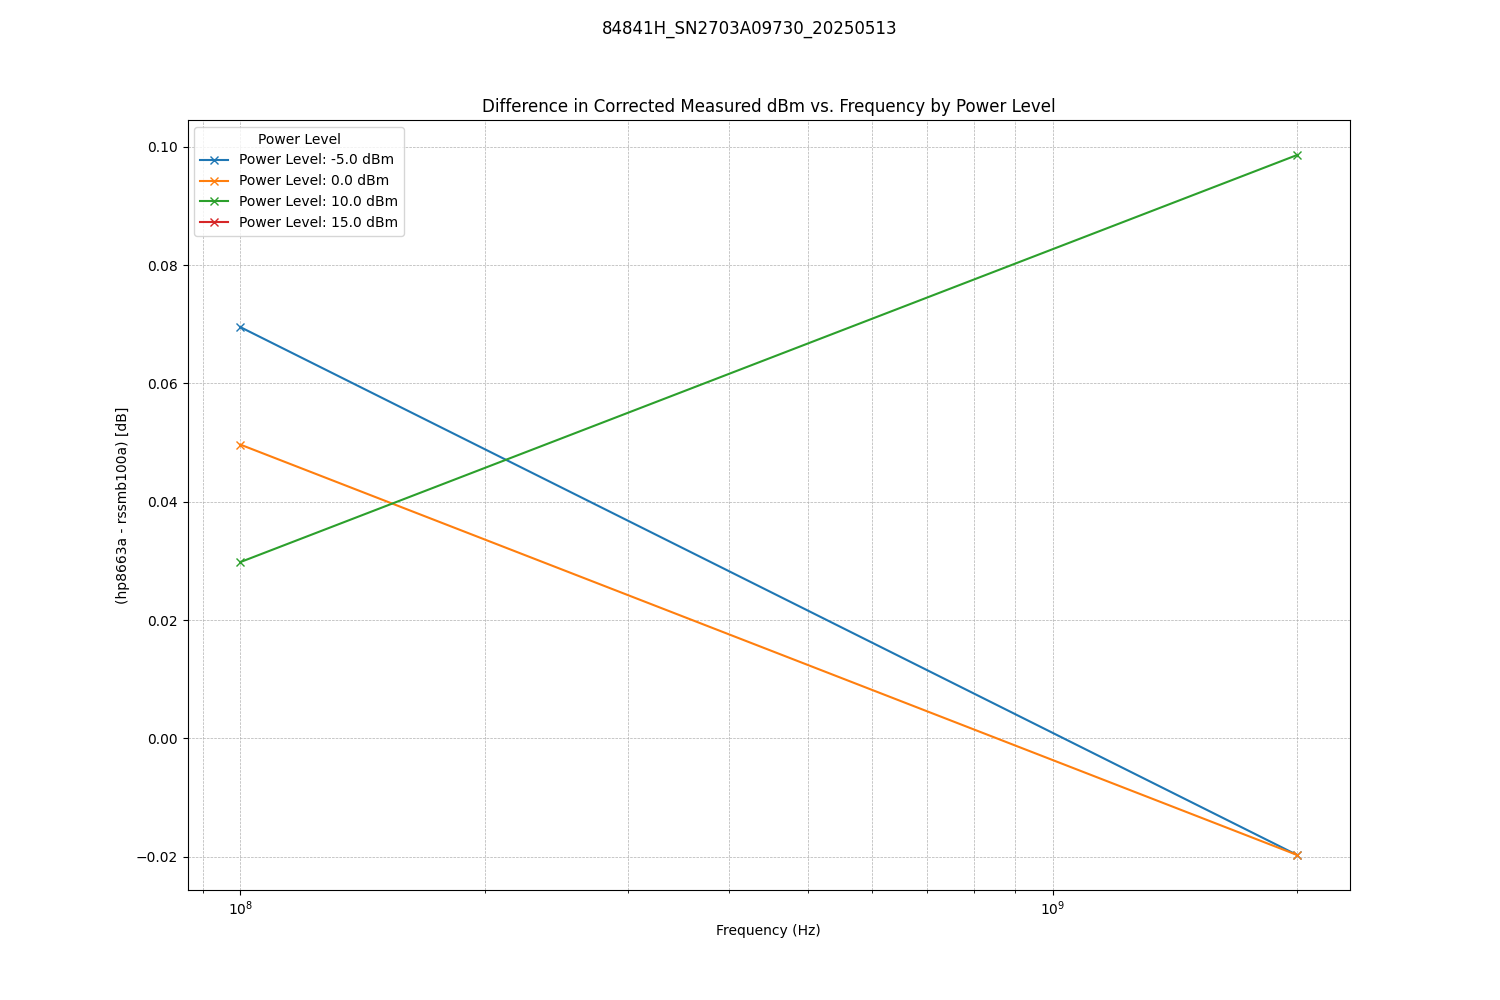
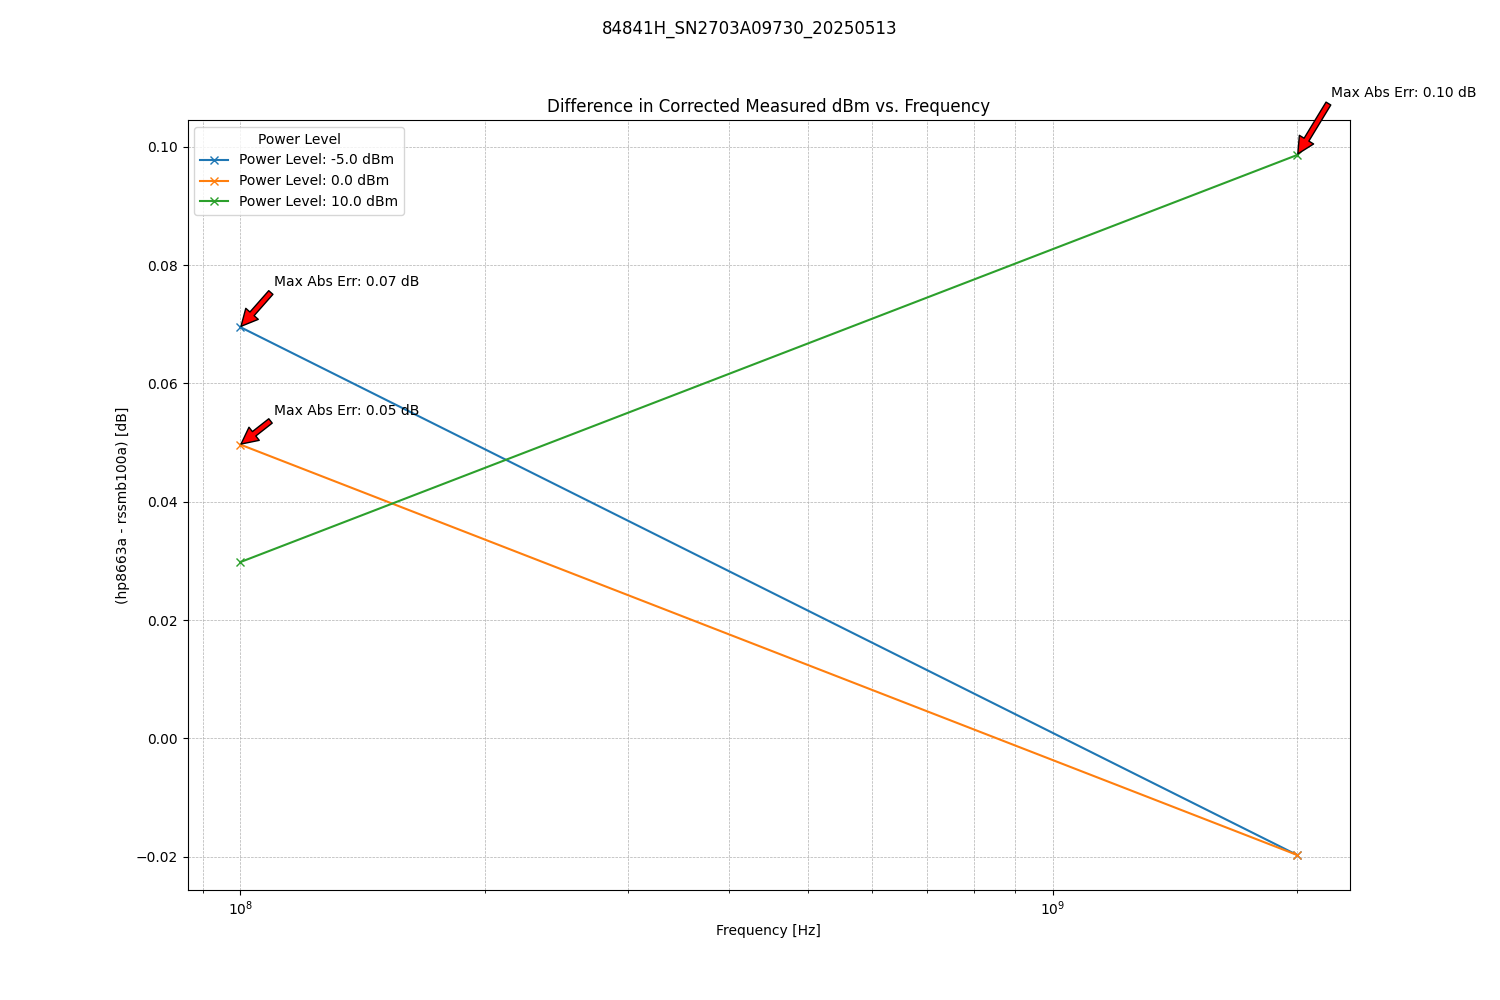
max abs err

diff --git a/instruments/rf_sensor_measurements/rs_vs_hp.py b/instruments/rf_sensor_measurements/rs_vs_hp.py
@@ -42,46 +42,44 @@ def main(argv):
         combined_df.to_parquet(f"{outname}.parquet")
 
         siggens = sorted(combined_df['siggen'].unique())
+        assert len(siggens) == 2
         siggen1 = siggens[0]
         siggen2 = siggens[1]
 
-        assert len(siggens) == 2
-
-        df_filtered = combined_df.dropna(
-            subset=['hz', 'power_level_dBm',
-                    'corrected_measured_dBm', 'siggen'])
-
-        # Pivot the DataFrame to have 'hz' and 'power_level_dBm' as index
-        # and 'siggen' as columns, with 'corrected_measured_dBm' as values.
-        # This automatically aligns based on the index (hz and power_level_dBm)
-        df_pivot = df_filtered.pivot_table(
+        df_pivot = combined_df.pivot_table(
             index=['hz', 'power_level_dBm'],
             columns='siggen',
-            values='corrected_measured_dBm')
+            values='corrected_measured_dBm'
+        )
 
         df_pivot['difference_dB'] = df_pivot[siggen1] - df_pivot[siggen2]
-        # df_pivot.iloc[:, 1] - df_pivot.iloc[:, 0])
+        df_pivot.dropna(inplace=True)
 
-        # Reset index to make 'hz' and 'power_level_dBm' columns again
-        df_diff = df_pivot.reset_index()
+        # Reset index to make 'hz' and 'power_level_dBm' columns again.
+        df_pivot = df_pivot.reset_index()
 
-        # Get unique power levels
-        power_levels = df_diff['power_level_dBm'].unique()
+        print(df_pivot)
+        power_levels = df_pivot['power_level_dBm'].unique()
 
-        # Plotting
         plt.figure(figsize=(15, 10))
-
         for level in power_levels:
-            df_subset = df_diff[df_diff['power_level_dBm'] == level]
+            df_subset = df_pivot[df_pivot['power_level_dBm'] == level]
             plt.plot(df_subset['hz'], df_subset['difference_dB'],
                      label=f'Power Level: {level} dBm', marker='x')
+            max_abs_err = df_subset['difference_dB'].abs().max()
+            max_abs_err_hz = df_subset.loc[
+                df_subset['difference_dB'].abs().idxmax(), 'hz']
+            plt.annotate(
+                f'Max Abs Err: {max_abs_err:.2f} dB',
+                xy=(max_abs_err_hz, df_subset.loc[df_subset['difference_dB'].abs().idxmax(), 'difference_dB']),
+                xytext=(max_abs_err_hz + max_abs_err_hz*0.1, df_subset.loc[df_subset['difference_dB'].abs().idxmax(), 'difference_dB'] + max_abs_err*0.1),
+                arrowprops=dict(facecolor='red', shrink=0.02))
 
         plt.xscale('log')
-        plt.xlabel('Frequency (Hz)')
+        plt.xlabel('Frequency [Hz]')
         plt.ylabel(f'({siggen1} - {siggen2}) [dB]')
         plt.suptitle(outname)
-        plt.title(
-            'Difference in Corrected Measured dBm vs. Frequency by Power Level')
+        plt.title('Difference in Corrected Measured dBm vs. Frequency')
         plt.legend(title='Power Level')
         plt.grid(True, which="both", ls="--", linewidth=0.5)
 
